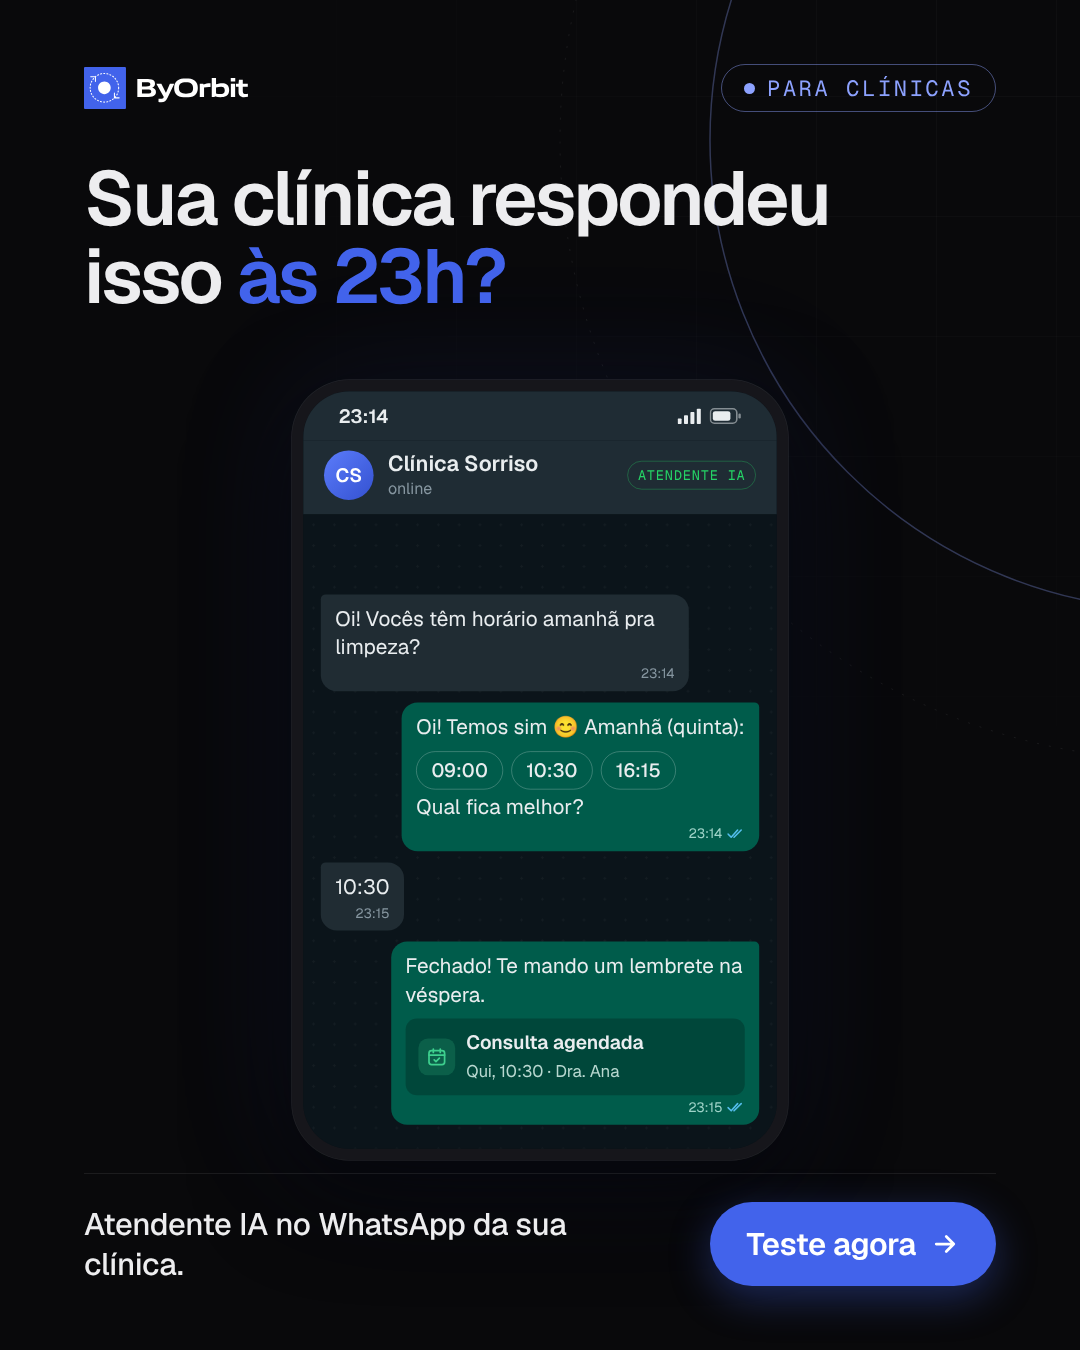
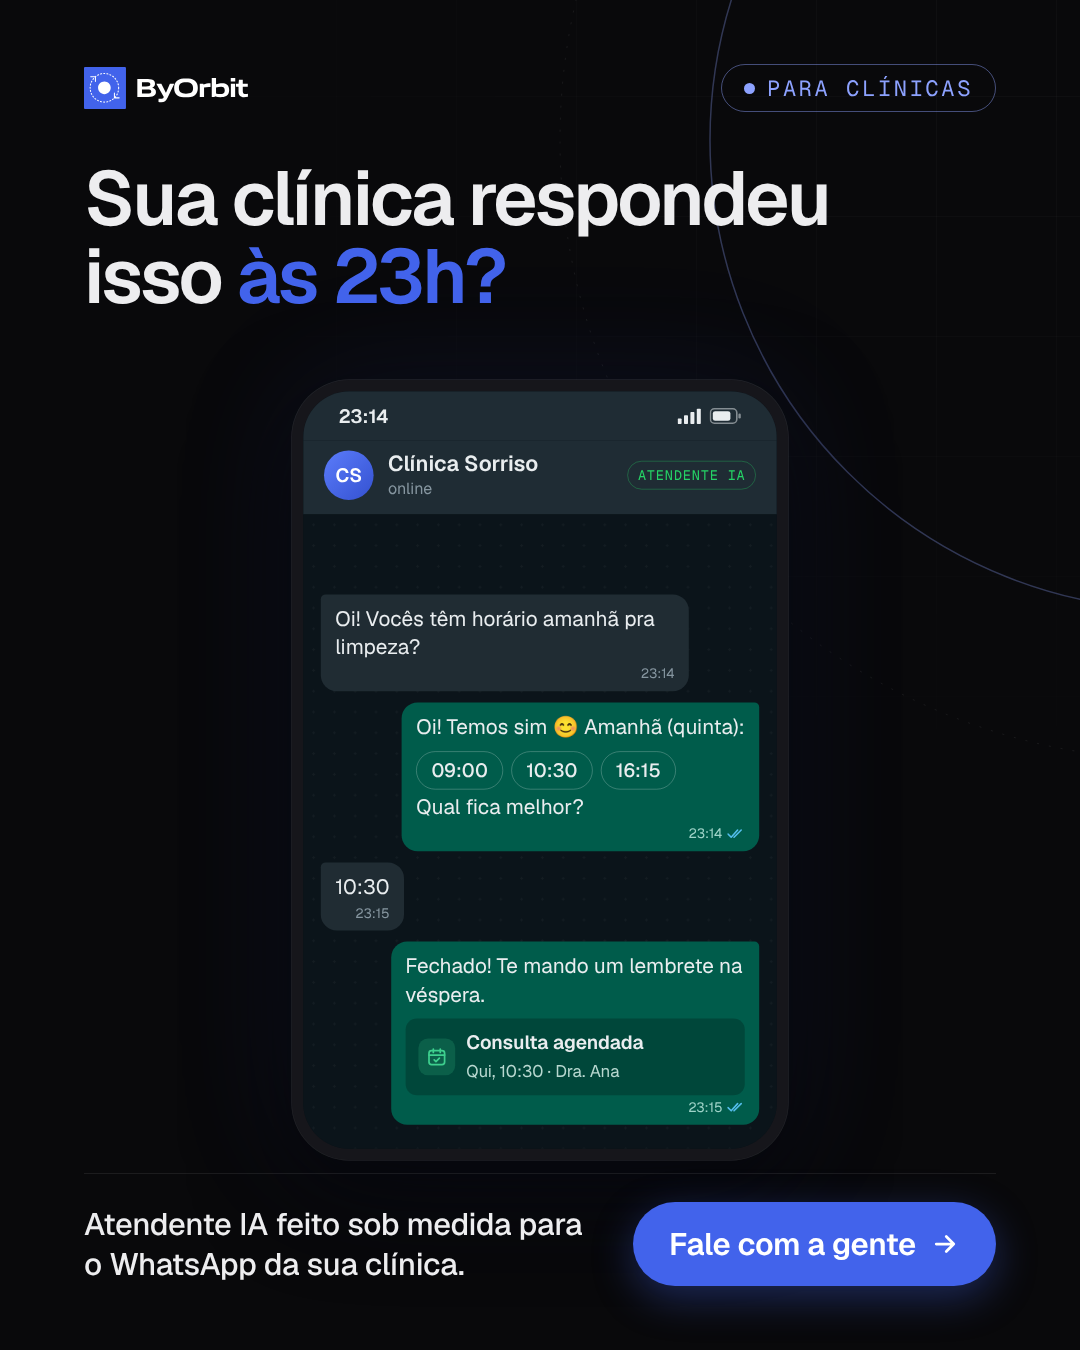
Anúncios: sem preço e sem demo; CTA para conversa, foco em dores e benefícios
Claude-Session: https://claude.ai/code/session_01X3h8uQFdpQaWbAFAworFQd

Changed region(s): [[0.0917, 0.9022, 0.55, 0.9644], [0.5806, 0.8711, 0.8556, 0.9644]]

diff --git a/kit/ads.html b/kit/ads.html
@@ -89,7 +89,7 @@ h1,h2{font-weight:600;letter-spacing:-0.035em;text-wrap:balance}
 .checks li{display:flex;align-items:center;gap:22px;font-size:40px;font-weight:500;letter-spacing:-0.01em}
 .price{margin-top:64px;display:inline-flex;flex-direction:column;gap:6px;padding:26px 34px;border-radius:24px;border:1px solid rgba(141,162,255,.35);background:rgba(66,99,235,.08)}
 .price small{font-family:"Geist Mono",monospace;font-size:21px;letter-spacing:.12em;text-transform:uppercase;color:var(--lilac)}
-.price b{font-size:52px;font-weight:600;letter-spacing:-0.03em}
+.price b{font-size:40px;font-weight:600;letter-spacing:-0.03em}
 /* cena: foto real + cards flutuantes (estilo referência) */
 .scene .bg{position:absolute;inset:0;z-index:0}
 .scene .bg img{width:100%;height:100%;object-fit:cover;object-position:50% 20%;display:block}

diff --git a/README.md b/README.md
@@ -11,7 +11,7 @@ As imagens em `posts/` são públicas de propósito: o Metricool publica a parti
 
 Nada em `anuncios/` é publicado automaticamente: o robô só lê `posts/`.
 
-- `kit/ads.html`: template de criativos. Tipos: `scene` (foto + cards flutuantes com fluxo), `chat` (conversa no celular), `split` (antes/depois), `statement` (oferta com preço)
+- `kit/ads.html`: template de criativos. Tipos: `scene` (foto + cards flutuantes com fluxo), `chat` (conversa no celular), `split` (antes/depois), `statement` (benefícios)
 - Formatos: `feed` 1080x1350 (4:5) e `story` 1080x1920 (9:16, respeitando as zonas seguras). Faça sempre os dois.
 - Render: `python3 -I kit/render_ads.py kit anuncios/<campanha>.json anuncios/`
 - Fotos: edite `anuncios/fotos.json` (`{"nome": {"query": "...", "orientation": "portrait", "n": 4}}`) e dê push; a Action `fotos-anuncios.yml` busca no Unsplash e salva em `anuncios/img/<nome>-N.jpg`, com créditos em `anuncios/img/creditos.json`
